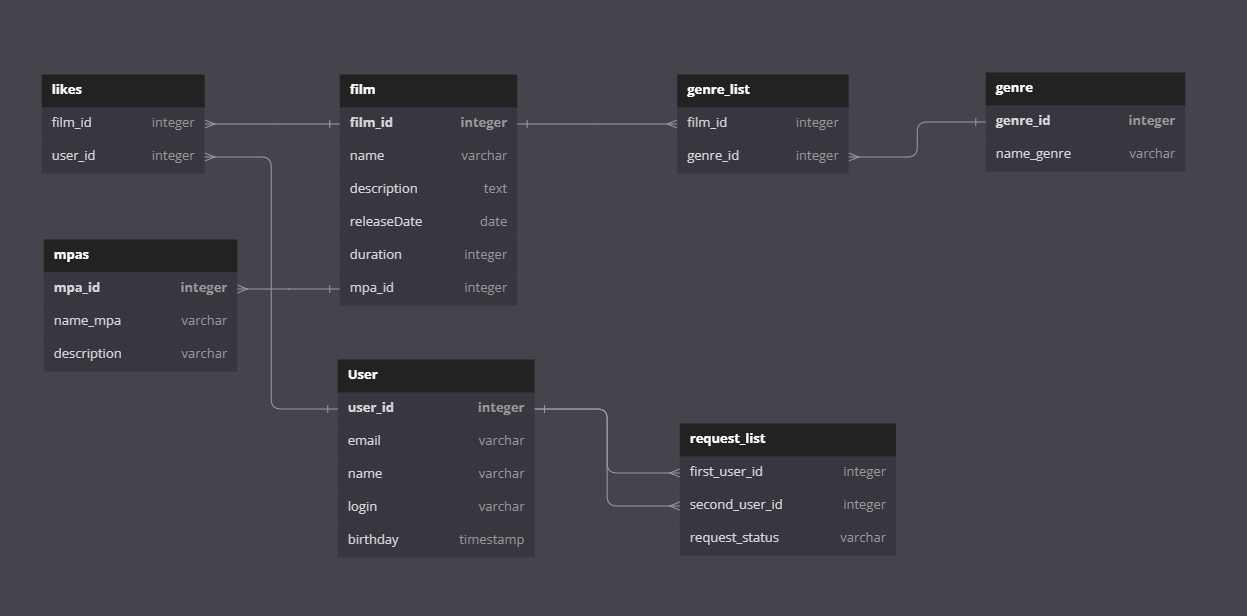
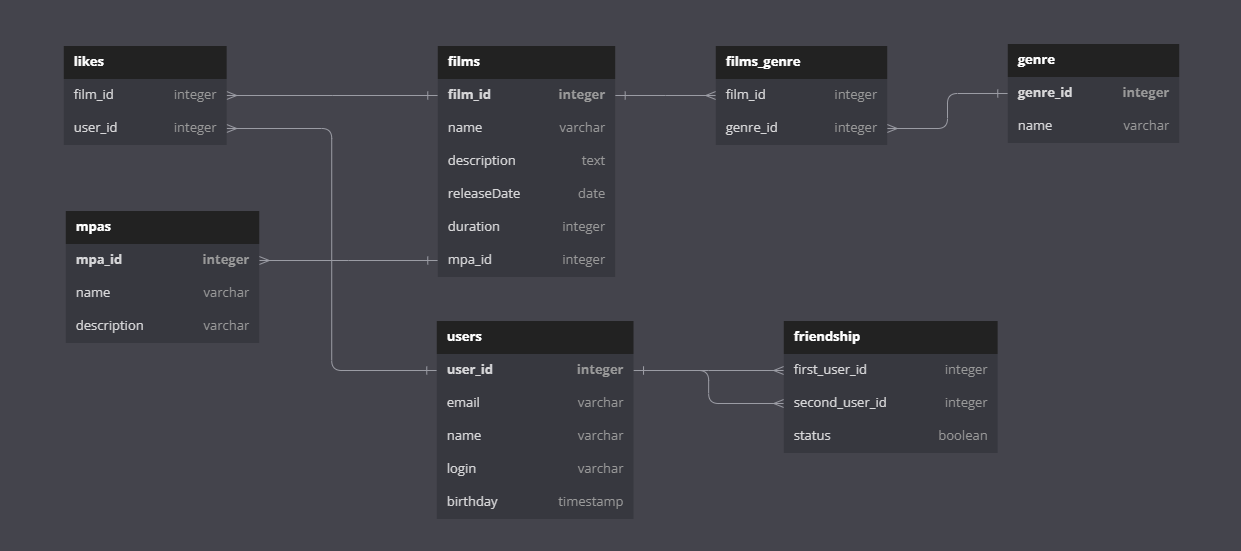
4.7.21 student reviu update

diff --git a/README.md b/README.md
@@ -8,16 +8,15 @@ Template repository for Filmorate project.
 [Ссылка на диаграмму](src/main/resources/ER-filmorate.png)
 
 [Ссылка на диаграмму в редакторе диаграмм](https://dbdiagram.io/d/6436b0d58615191cfa8d5bbd)
-
 ## Описание ER диаграммы filmorate:
 
-Таблица film с внешним ключом film_id, по которому она связана с таблицей genre_list, так же содержащей поле genre_id.
-Имена жанров располагаются в таблице genre, genre_id является внешним ключом. И так же связана с таблицей mpas, в
-которой есть три колонки: mpa_id (внешний ключ), name_mpa и description (текстовое описание рейтинга).
+Таблица film с внешним ключом film_id, по которому она связана с таблицей films_genre, так же содержащей поле genre_id.
+Имена жанров располагаются в таблице genre, genre_id является внешним ключом. И так же связана с таблицей rating, в
+которой есть две колонки: rating_id (внешний ключ) и name.
 
-Таблица user с внешним ключом user_id. В Таблице likes имеются поля film_id и user_id, по которой мы можем определить
+Таблица users с внешним ключом user_id. В Таблице likes имеются поля film_id и user_id, по которой мы можем определить
 какие пользователи какому фильму ставили лайки. Чтобы определить, какой из пользователей какому является другом, есть
-таблица request_list содержит три поля: first_user_id (user отправляющий запрос на добавление в друзья), second_user_id
+таблица friendship, которая содержит три поля: first_user_id (user отправляющий запрос на добавление в друзья), second_user_id
 и состояние запроса принято/не принято.
 
 ## Примеры запросов
@@ -27,20 +26,20 @@ Template repository for Filmorate project.
 #### Получение всех фильмов
 
 ```
-SELECT title FROM film;
+SELECT * FROM film;
 ```
 
 #### Выдать фильм по id
 
 ```
-SELECT title FROM film
-WHERE film id = 'somenumber'
+SELECT name FROM films
+WHERE film_id = 'somenumber'
 ```
 
 #### Добавить фильм
 
 ```
-INSERT INTO film (film_id, name, description, releaseDate, duration, rating_id)
+INSERT INTO film (name, description, releaseDate, duration, rating_id)
 VALUES ('aaa', 'bbb', 'yyyy.mm.dd', 'ccc', x); 
 ```
 
@@ -48,7 +47,7 @@ VALUES ('aaa', 'bbb', 'yyyy.mm.dd', 'ccc', x);
 
 ```
 INSERT INTO film (name, description, releaseDate, duration, rating_id)
-VALUES (q, 'aaa', 'bbb', 'yyyy.mm.dd', 'ccc', x); 
+VALUES (q, 'aaa', 'bbb', 'yyyy.mm.dd', 'ccc', x) WHERE film_id = q 
 ON CONFLICT (q) DO UPDATE SET name = EXCLUDED.name, 
                               description = EXCLUDED.description, 
                               releaseDate = EXCLUDED.releaseDate, 
@@ -66,7 +65,7 @@ VALUES ('somefilm_id', 'someuser_id');
 #### Пользователь удаляет лайк
 
 ```
-DELETE FROM likes WHERE film_id = somefilm_id, user_id=someuser_id;
+DELETE FROM likes WHERE film_id = somefilm_id AND user_id=someuser_id;
 ```
 
 #### Удалить фильм
@@ -83,14 +82,14 @@ FROM film AS f
 LEFT JOIN likes AS k ON f.film_ id = k.film_id
 GROUP BY f.title
 ORDER BY count DESС
-LIMIT(top_fillm);
+LIMIT(top_film);
 ```
 ### User
 
 #### Получение списка всех пользователей
 
 ```
-SELECT name FROM users;
+SELECT * FROM users;
 ```
 
 #### Добавление пользователя
@@ -103,8 +102,8 @@ VALUES ('aaa', 'bbb', 'ccc', 'yyyy.mm.dd');
 #### Обновление пользователя
 
 ```
-INSERT INTO user (user_id, email, name, login, birthday)
-VALUES (q, 'aaa', 'bbb', 'ccc', 'yyyy.mm.dd'); 
+INSERT INTO user (email, name, login, birthday)
+VALUES ('aaa', 'bbb', 'ccc', 'yyyy.mm.dd') WHERE user_id = q ; 
 ON CONFLICT (q) DO UPDATE SET email = EXCLUDED.email, 
                               name = EXCLUDED.name, 
                               login = EXCLUDED.login, 
